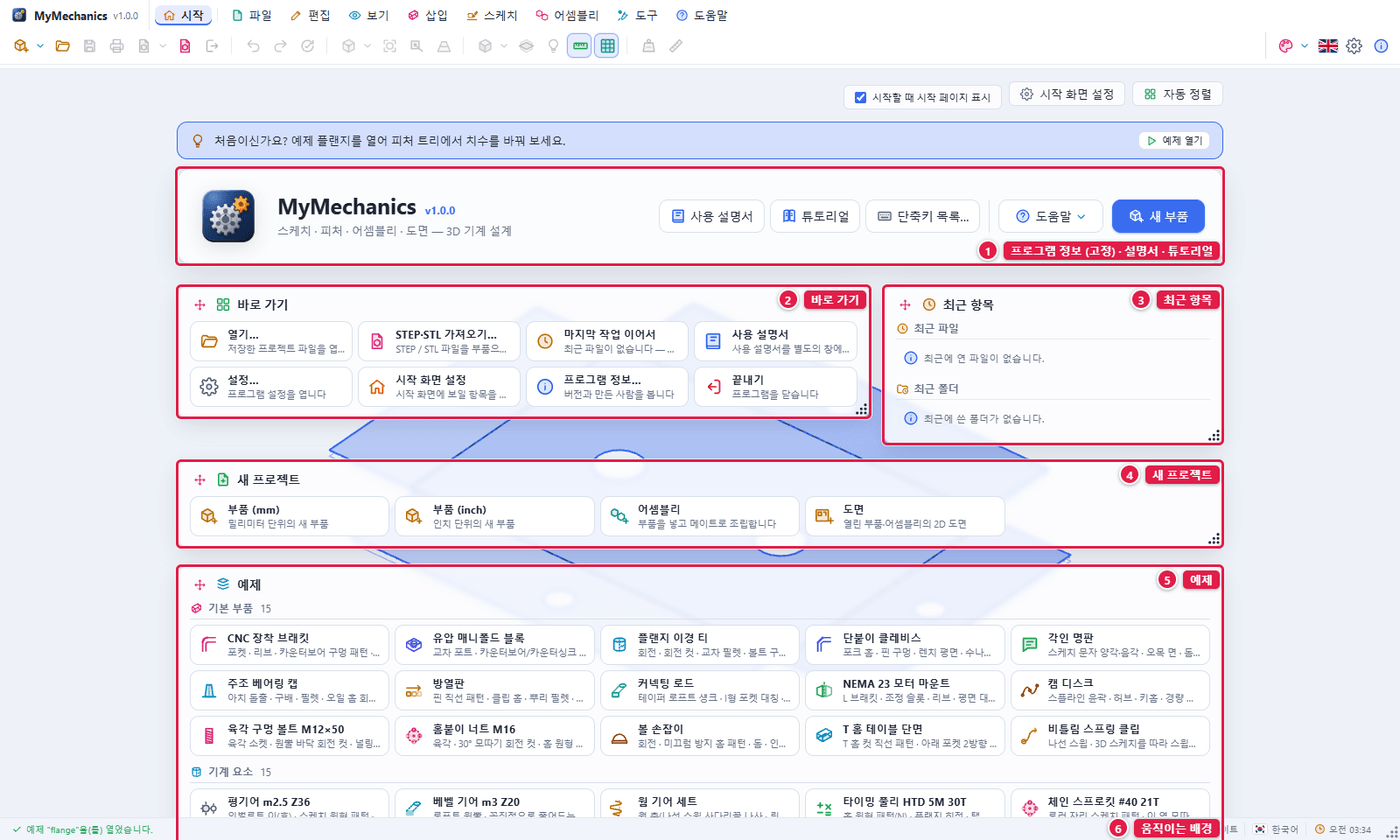
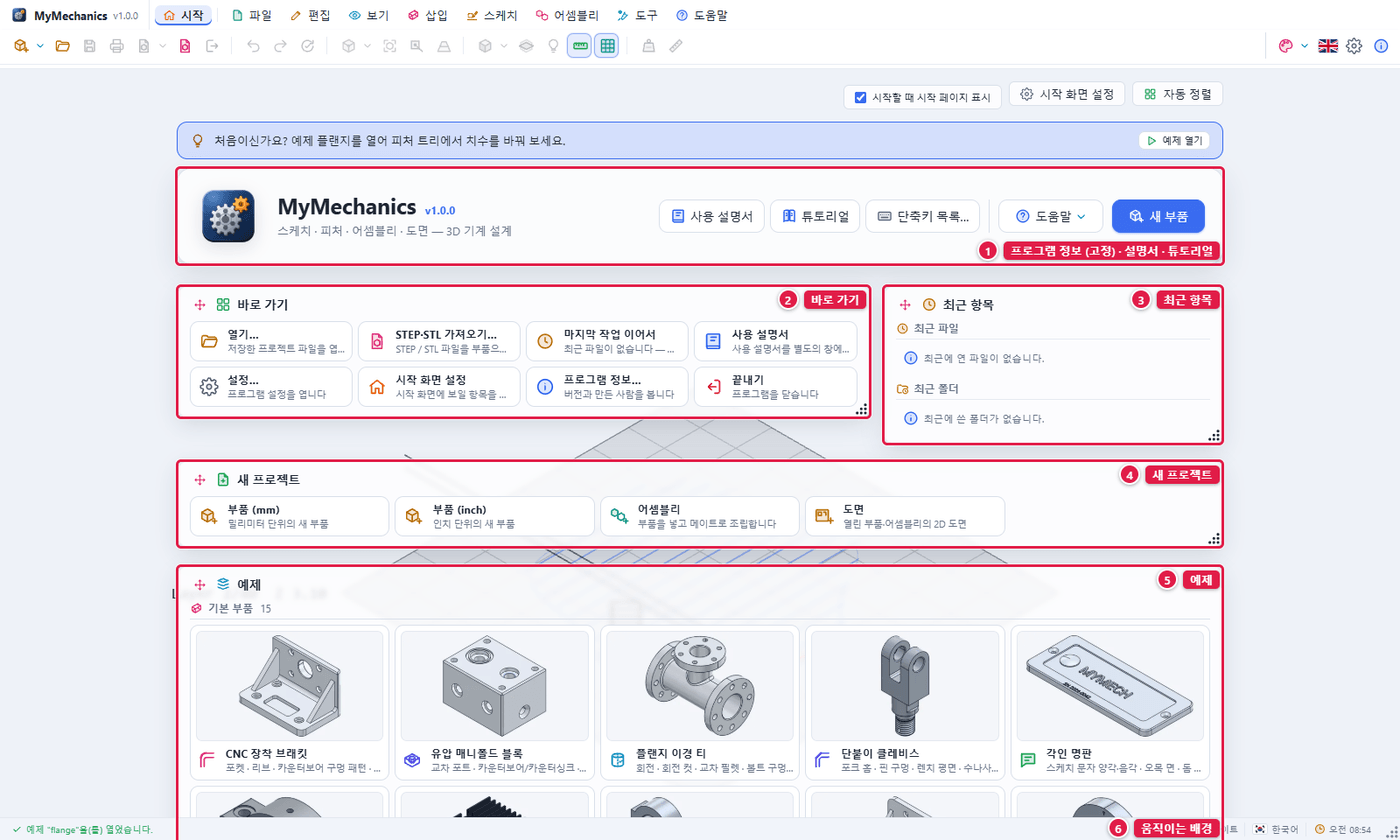
Add changes.

Changed region(s): [[0.1229, 0.7429, 0.86, 0.9905], [0.215, 0.4643, 0.7371, 0.5571], [0.2764, 0.65, 0.7679, 0.681]]

diff --git a/MyMechanicsMultiOSV10/src/cad/features.js b/MyMechanicsMultiOSV10/src/cad/features.js
@@ -303,7 +303,7 @@ export function regenerate(input, { upTo = null, project = null, flat = undefine
   const part = { ...input, features: feats };
   const results = new Map();
   const planes = new Map();
-  const ctx = { body: null, planes, part, results, project, surfaces: new Map(), curves: new Map(), flat: flat ?? Boolean(input.flat), stack: [...stack, input.id], sheet: null };
+  const ctx = { body: null, planes, part, results, project, surfaces: new Map(), absorbed: new Set(), curves: new Map(), flat: flat ?? Boolean(input.flat), stack: [...stack, input.id], sheet: null };
   const end = upTo == null ? part.features.length : Math.max(0, Math.min(part.features.length, upTo));
   let lastError = null;
   for (let i = 0; i < end; i++) {
@@ -323,6 +323,9 @@ export function regenerate(input, { upTo = null, project = null, flat = undefine
       if (out.body !== undefined) ctx.body = out.body;
       if (out.frame && (f.type === 'plane')) planes.set(f.id, out.frame);
       if (out.surface) ctx.surfaces.set(f.id, out.surface);
+      // A surface knitted, thickened, trimmed, extended, untrimmed or with its holes filled lives on in the new
+      // feature: it stays in the map (later features may still name it) but is no longer shown.
+      for (const id of ABSORBS[f.type]?.(f) ?? []) if (id && id !== f.id) ctx.absorbed.add(id);
       if (out.curve) ctx.curves.set(f.id, out.curve);
       results.set(f.id, { ok: true, ...out, body: ctx.body });
     } catch (error) {
@@ -331,8 +334,18 @@ export function regenerate(input, { upTo = null, project = null, flat = undefine
     }
   }
   for (let i = end; i < part.features.length; i++) results.set(part.features[i].id, { ok: true, rolledBack: true });
-  return { body: ctx.body, results, planes, surfaces: ctx.surfaces, curves: ctx.curves, sheet: ctx.sheet, features: part.features, error: lastError };
+  return { body: ctx.body, results, planes, surfaces: ctx.surfaces, absorbed: ctx.absorbed, curves: ctx.curves, sheet: ctx.sheet, features: part.features, error: lastError };
 }
+
+/** The surfaces a successful feature takes in (they are drawn no longer). */
+const ABSORBS = {
+  knit: (f) => f.surfaces ?? [],
+  thicken: (f) => [f.surface],
+  trimSurface: (f) => [f.surface],
+  extendSurface: (f) => [f.surface],
+  untrimSurface: (f) => [f.surface],
+  deleteHole: (f) => [f.surface],
+};
 
 function build(f, ctx) {
   switch (f.type) {

diff --git a/MyMechanicsMultiOSV10/src/ui/startpage.js b/MyMechanicsMultiOSV10/src/ui/startpage.js
@@ -66,12 +66,23 @@ function recentBody(app, settings) {
   return `${recentBlock}${foldersBlock}`;
 }
 
+// The samples' pictures (scripts/make-sample-thumbs.mjs → src/assets/samples/<id>.webp); a sample without one shows its icon only.
+const THUMBS = import.meta.glob('../assets/samples/*.webp', { eager: true, query: '?url', import: 'default' });
+export const sampleThumb = (id) => THUMBS[`../assets/samples/${id}.webp`] ?? null;
+
+/** A sample tile: its picture above the icon, name and description. */
+function sampleTile(sample, L) {
+  const src = sampleThumb(sample.id);
+  const [name, tip] = sample[L];
+  return `<button type="button" class="start-tile sample-tile ${src ? 'has-thumb' : ''}" data-start="sample" data-value="${escapeHtml(sample.id)}" title="${escapeHtml(`${name} — ${tip}`)}">${src ? `<img class="sample-thumb" src="${src}" alt="" loading="lazy" decoding="async" draggable="false" />` : ''}${icon(sample.icon)}<b>${escapeHtml(name)}</b><small>${escapeHtml(tip)}</small></button>`;
+}
+
 function samplesBody(L) {
   return `<div class="sample-groups">${SAMPLE_GROUPS.map((group) => {
     const items = SAMPLES.filter((sample) => sample.group === group.id);
     return `<section class="sample-group" data-sample-group="${group.id}">
       <h3>${icon(group.icon)}<span>${escapeHtml(group[L])}</span><span class="sample-count">${items.length}</span></h3>
-      <div class="sample-tiles">${items.map((sample) => tile('sample', sample.icon, sample[L][0], sample[L][1], { value: sample.id })).join('')}</div>
+      <div class="sample-tiles">${items.map((sample) => sampleTile(sample, L)).join('')}</div>
     </section>`;
   }).join('')}</div>`;
 }

diff --git a/MyMechanicsMultiOSV10/src/styles.css b/MyMechanicsMultiOSV10/src/styles.css
@@ -1671,6 +1671,10 @@ select.dd-select { background-repeat: no-repeat; background-position: 8px center
 .sample-group > h3 .icon { width: 15px; height: 15px; }
 .sample-count { margin-left: 2px; color: var(--muted); font-weight: normal; }
 .sample-tiles { display: grid; grid-template-columns: repeat(auto-fill, minmax(190px, 1fr)); gap: 6px; }
+/* A sample with a picture: the picture across the top, then the icon beside the name and description. */
+.sample-tile.has-thumb { grid-template-rows: auto auto auto; align-items: center; padding: 6px; overflow: hidden; }
+.sample-tile .sample-thumb { grid-column: 1 / -1; display: block; width: 100%; height: auto; aspect-ratio: 400 / 236; object-fit: contain; margin-bottom: 5px; border-radius: 7px; border: 1px solid var(--hairline, var(--border)); background: #f4f6f9; user-select: none; -webkit-user-drag: none; transition: transform 0.15s ease; }
+.sample-tile.has-thumb:hover .sample-thumb { transform: scale(1.02); }
 
 .bg-grid { display: grid; grid-template-columns: repeat(auto-fill, minmax(132px, 1fr)); gap: 5px; }
 .bg-tile, .anim-chip { display: flex; align-items: center; justify-content: flex-start; gap: 7px; min-width: 0; height: 32px; padding: 0 9px; border: 1px solid var(--border); border-radius: 7px; background: var(--surface); color: var(--text); font-size: 0.92em; text-align: left; white-space: nowrap; cursor: pointer; }

diff --git a/MyMechanicsMultiOSV10/test/unit/advanced.test.js b/MyMechanicsMultiOSV10/test/unit/advanced.test.js
@@ -126,11 +126,13 @@ test('surface extrude, planar surface, thicken and offset surface', () => {
   part.features.push(createFeature(part, 'thicken', { surface: plane.id, thickness: 3 }));
   let r = ok(part);
   near(V(r.body), 600);
+  // The thickened surface is taken in by the solid: kept for later references, no longer drawn.
+  assert.ok(r.surfaces.has(plane.id) && r.absorbed.has(plane.id));
   const wall = sketchOn(part, front, (k) => addArc(k, 0, 0, 30, 0, Math.PI / 2));
   const sx = createFeature(part, 'surfaceExtrude', { sketch: wall.id, depth: 10 });
   part.features.push(sx);
   r = ok(part);
-  assert.ok(r.surfaces.get(sx.id));
+  assert.ok(r.surfaces.get(sx.id) && !r.absorbed.has(sx.id));
   near(R.measureArea(r.surfaces.get(sx.id)), (Math.PI / 2) * 30 * 10, 0.01);
 });
 

diff --git a/MyMechanicsMultiOSV10/src/app.js b/MyMechanicsMultiOSV10/src/app.js
@@ -2338,6 +2338,7 @@ function tessellateExtras(result, size) {
   const out = { surfaces: [], curves: [] };
   const tol = { tolerance: Math.max(0.002, meshTolerance(size)), angularTolerance: angularTolerance() };
   for (const [id, shape] of result.surfaces ?? []) {
+    if (result.absorbed?.has(id)) continue;
     try { out.surfaces.push({ id, mesh: shape.mesh(tol), edges: shape.meshEdges(tol) }); } catch (error) { console.warn('surface mesh', error); }
   }
   const polylineSegments = (edges) => {

diff --git a/MyMechanicsMultiOSV10/doc/UsersGuide.md b/MyMechanicsMultiOSV10/doc/UsersGuide.md
@@ -31,7 +31,7 @@ MyMechanics는 피처 기반의 파라메트릭 3D 기계 설계 프로그램입
 
 ## 2. 시작 화면
 
-카드는 끌어서 옮기고 오른쪽 아래 모서리로 크기를 바꿀 수 있습니다(**자동 정렬**로 되돌림). **바로 가기**(열기, STEP 가져오기, 마지막 작업 이어서, 설정 …), **최근 항목**, **새 프로젝트**(부품 mm·inch, 어셈블리, 도면), **예제** 92개(5개 그룹 × 15, 그리고 튜토리얼 17과의 결과), **움직이는 배경**이 있습니다. 시작할 때 이 화면을 보일지는 왼쪽 위 확인란이나 설정 › 시작 화면에서 정합니다.
+카드는 끌어서 옮기고 오른쪽 아래 모서리로 크기를 바꿀 수 있습니다(**자동 정렬**로 되돌림). **바로 가기**(열기, STEP 가져오기, 마지막 작업 이어서, 설정 …), **최근 항목**, **새 프로젝트**(부품 mm·inch, 어셈블리, 도면), **예제** 92개(5개 그룹 × 15, 그리고 튜토리얼 17과의 결과 — 카드마다 모델 그림이 보입니다), **움직이는 배경**이 있습니다. 시작할 때 이 화면을 보일지는 왼쪽 위 확인란이나 설정 › 시작 화면에서 정합니다.
 
 ![시작 화면: 프로그램 정보(설명서·튜토리얼 단추), 바로 가기, 최근 항목, 새 프로젝트, 예제 카드](images/ko/start-page.png)
 

diff --git a/MyMechanicsMultiOSV10/doc/UsersGuide.en.md b/MyMechanicsMultiOSV10/doc/UsersGuide.en.md
@@ -31,7 +31,7 @@ New to the program? Follow the **tutorial document** first (Help › Tutorial do
 
 ## 2. Start page
 
-Cards can be dragged and resized from their lower-right corner (**Arrange** puts them back). They hold **Quick actions** (open, import STEP, continue the last work, settings …), **Recent items**, **New project** (part in mm or inches, assembly, drawing), 92 **samples** (five groups of 15, and the tutorial's 17 lesson results) and the **moving background**. Whether the page shows at start is set by the check box at the top left or in Settings › Start page.
+Cards can be dragged and resized from their lower-right corner (**Arrange** puts them back). They hold **Quick actions** (open, import STEP, continue the last work, settings …), **Recent items**, **New project** (part in mm or inches, assembly, drawing), 92 **samples** (five groups of 15, and the tutorial's 17 lesson results — each card shows a picture of its model) and the **moving background**. Whether the page shows at start is set by the check box at the top left or in Settings › Start page.
 
 ![The start page: program information (guide and tutorial buttons), shortcuts, recent items, new project and sample cards](images/en/start-page.png)
 
